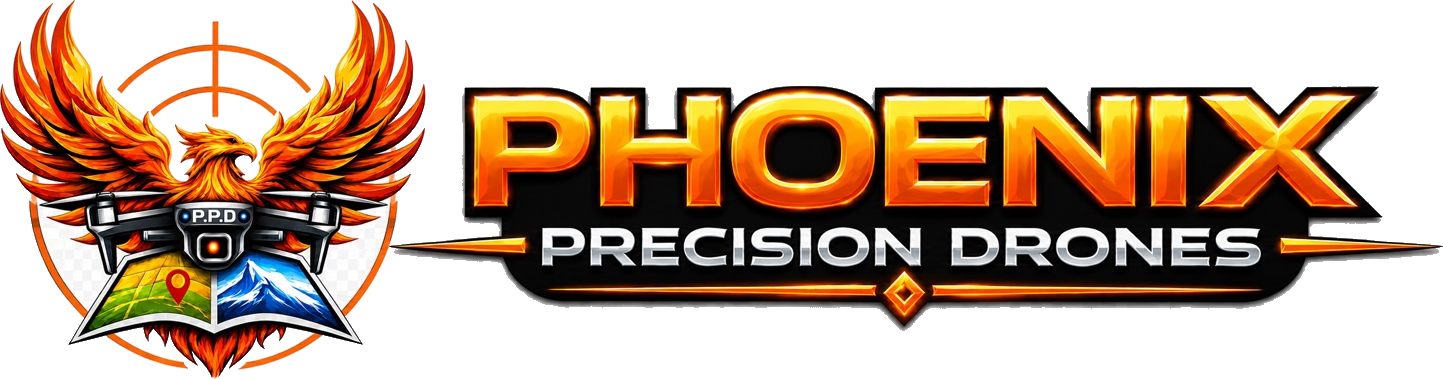
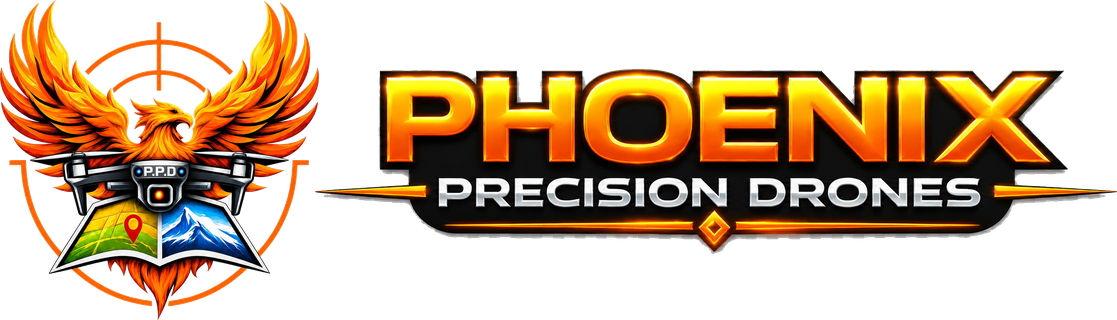
Add files via upload

diff --git a/README.md b/README.md
@@ -1,13 +1,12 @@
-# Phoenix Precision Drones Website - V7 Header/Footer Fix
+# Phoenix Precision Drones Website - V8 Clean Header Image
 
-This package adjusts only the brand/header/footer problem areas.
+This package fixes the two remaining non-transparent white spots in the left logo portion of the combined header image.
 
 ## Changes
-- Replaces the separate small header logo and banner with one combined header image
-- Enlarges the brand image on mobile so the emblem is recognizable
-- Reduces the Request Quote button size so it does not crowd the header
-- Replaces the footer emblem with the newer cleaned logo asset
-- Keeps the existing futuristic page theme and portal pages
+- Rebuilt the combined header image from the cleaned standalone emblem and cleaned banner
+- Removed the leftover white/checkerboard spots inside the logo portion
+- Replaced the footer emblem with the cleaned standalone logo
+- Kept the existing header sizing and button-size fixes from V7
 
 ## Deploy
 Upload/replace these files in the GitHub repository and commit to `main`. Vercel should redeploy automatically.